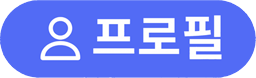
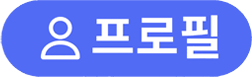
feat(talk): 그래픽 소스 11-15 받은 신청 버튼 둘 반영 · 기획서 261111 6장 대조(변경 없음)
- button_profile 256x78 -> 252x77, 자리 770 -> 756
- button_view_trans 209x73 -> 248x72 (자리 211 그대로)
- 공용: 친구 요청 상세 · 프로필 미리보기 [원문보기]도 함께 바뀜 (09 두 줄에 기록)
- 261011 -> 261111 6장 본문 동일

diff --git a/lib/features/chat/presentation/widgets/talk_art.dart b/lib/features/chat/presentation/widgets/talk_art.dart
@@ -116,7 +116,9 @@ class TalkArt {
   static const double messageLeft = 72 - 24;
 
   static const String viewOriginal = '$_recv/button_view_trans.png';
-  static const Size viewOriginalSize = Size(209, 73);
+  /// 2026-11-15 `그래픽 소스`에서 209×73 → **248×72**(글자가 커졌다). 자리 `211`은 그대로.
+  /// 📌 프로필 미리보기 `_ViewOriginalButton`도 이 그림·크기를 같이 쓴다.
+  static const Size viewOriginalSize = Size(248, 72);
   static const double viewOriginalLeft = 211 - 24;
 
   /// 같은 나라 사람이라 `[원문보기]`를 못 누를 때의 알파(2026-10-04 사용자 결정).
@@ -124,8 +126,10 @@ class TalkArt {
   static const double viewOriginalDisabledOpacity = 0.35;
 
   static const String profile = '$_recv/button_profile.png';
-  static const Size profileSize = Size(256, 78);
-  static const double profileLeft = 770 - 24;
+  /// 2026-11-15 `그래픽 소스`에서 256×78 → **252×77**, 자리 `770` → **`756`**(대화방 좌표 시안).
+  /// 친구 요청 상세도 이 값을 같이 쓴다(친구 좌표 시안은 아직 옛 `770`이지만 그림이 대화방 것이다).
+  static const Size profileSize = Size(252, 77);
+  static const double profileLeft = 756 - 24;
 
   static const double panelRowTop = 1526 - 1487;
 

diff --git a/docs/09-next-task-handoff.md b/docs/09-next-task-handoff.md
@@ -37,9 +37,9 @@
 |---|---|---|
 | 📸 포스트 `/post` | ✅ **11-15 `그래픽 소스` 반영**(2026-11-15) — 앨범 571·부스트 430 · Prime은 **공용 그림 그대로**(교체는 가든 몫 — 포스트는 `GardenArt`를 따라 자동으로 시안 자리로 감) · 제목 아래 안내 문구 · `1/9` 휴지통 위 · 자물쇠 330. 261111 3장은 문구·화면 이름만 바뀜(루나 버튼 삭제는 /shop이 먼저 함). ✅ `verify_post_lock.py` 복구(2026-11-15 — 권리 출처 `LUNA_PURCHASE` → `STORE`, 17/17). 다음은 새 전달본 | 일본어판 그림 4장(08 §0-1 #1·#7~9) |
 | 🌙 달빛가든 `/garden` | ✅ **11-15 `그래픽 소스` 반영**(2026-11-15) — Prime 277×92 혼자 오른쪽(**공용** — 포스트·대화방·친구 머리글도 함께) · `button_Moonlight` 351×121 + **일본어판** · 필터 자리 251/488/705 · 제목 아래 안내 문구(`gardenSubtitle`) · 🗑 안 쓰는 `button_luna.png` 지움(대조 도구 `SKIP_FILES`) · ✅ **기획서 261111 반영** — 4-3 대화 신청 하루 **2회** 무료 · 18시 초기화 · 프라임 무제한 · 루나 없음 · 다 쓰면 `CHAT_REQUEST_FREE_EXHAUSTED`·[MSG NUM2](이 PC 8080에 들어감, 11-15 13:16) · 4-1 노출 믹싱 **5:5**(상점 세션이 대신 반영). ✅ 4-2 댓글 시트 · 카드에서 바로 사진 넘기기(10-04). **다음**: 🤖 봇 데이터 설계 전에 정할 것 정리(§4-1) · 새 전달본 | 관심사 칩 그림(37×2) · 일본어판 남은 것(08 §0-1) · 잠긴 장을 **그 장의 흐린 축소본**으로 보일지(지금은 메인 사진을 뭉갬) |
-| 💬 대화방 `/talk` | 🆕 **11-15 `그래픽 소스` 대조 — 미반영**: 받은 신청 `button_profile` 256×78→252×77 · `button_view trans` 209×73→248×72(`icon_next`는 원래 안 씀) · ✅ 기획서 261111 4-3 대화 신청 규칙(하루 2회 무료·18시 초기화·루나 없음)은 **가든이 반영**(11-15) — 보내는 쪽 규칙이라 **받은 신청은 바뀌는 것 없음**(가든 세션 기록). 채팅창은 `/chat`으로 넘어갔다(10-25). 새 전달본이 오면 그것부터 | 받은 신청 신고·차단 경로 부재 — 폐지인지 확인(10 §0-2) · 일본어판 7장 |
-| 🤝 친구 `/friend` | ✅ **11-15 `그래픽 소스` 대조 — 바뀐 그림 없음**(`button_receive_*`·`icon_next`는 원래 안 들임) · ✅ 받은 신청 손질(261002 7-2, 07 §4 10-04 [친구]). 다음: 261002 **7-1** 문장 대조(친구 100명 상한 문구 등) | [친구 관리] 아이콘 5 그림 · `[원문보기]` 회색 그림 · 핀/`N` 같은 자리 · 친구 신청 만료 기간 · 도시 표기 · 일본어판 4장 |
-| 🙂 프로필 `/profile` | 🆕 **11-15 `그래픽 소스` 대조 — 미반영**: 미리보기 `button_friend` · `button_talk` 🆕 · ✅ **[작성하기]·[미리 보기] 개편 끝**(261002 8-1, **V28**) — 실기기에서 **자유 사진 업로드** 한 번 눌러 볼 것 | 기획 확인 5건(10 §0-3) · 관심사 칩 36종·지역 칩 19곳 그림 · 일본어판 `mark_*` 4 · `title_profile` · 버튼 4(08 §0-3) |
+| 💬 대화방 `/talk` | ✅ **11-15 `그래픽 소스` 반영**(2026-11-15) — 받은 신청 `button_profile` 256×78→**252×77**, 자리 770→**756** · `button_view trans` 209×73→**248×72**(자리 211 그대로). 🔗 공용 — 친구 요청 상세 · 프로필 미리보기 `[원문보기]`도 함께 바뀜 · `icon_next`는 원래 안 씀 · ✅ **기획서 261011 → 261111 6장 diff: 본문 한 글자도 안 바뀜**(10-2 프라임 신청 1일 최상단도 그대로 — 이미 `priorityUntil`로 구현). 4-3 하루 2회 무료는 보내는 쪽 규칙이라 받은 신청 영향 없음(가든 반영). 채팅창은 `/chat`(10-25). ⚠ 실기기 눈 확인 아직(같은 때 `/chat`이 ARB를 고치는 중이라 빌드 보류). **다음**: 눈 확인 · 새 전달본이 오면 그것부터 | 받은 신청 신고·차단 경로 부재 — 폐지인지 확인(10 §0-2) · 일본어판 7장 |
+| 🤝 친구 `/friend` | 🆕 **공용 팝업 변경 — 대화방 세션이 기록(2026-11-15)**: 친구 요청 상세의 `[프로필]` 버튼이 252×77 · 자리 756으로, `[원문보기]`가 248×72로 바뀌었다(그림이 대화방 것 · `TalkArt`). 친구 좌표 시안(`친구방_받은신청_팝업창 좌표.png`)은 아직 옛 770·옛 그림이라 다르게 보이면 대화방 쪽이 맞다 · ✅ **11-15 `그래픽 소스` 대조 — 바뀐 그림 없음**(`button_receive_*`·`icon_next`는 원래 안 들임) · ✅ 받은 신청 손질(261002 7-2, 07 §4 10-04 [친구]). 다음: 261002 **7-1** 문장 대조(친구 100명 상한 문구 등) | [친구 관리] 아이콘 5 그림 · `[원문보기]` 회색 그림 · 핀/`N` 같은 자리 · 친구 신청 만료 기간 · 도시 표기 · 일본어판 4장 |
+| 🙂 프로필 `/profile` | 🆕 **11-15 `그래픽 소스` 대조 — 미반영**: 미리보기 `button_friend` · `button_talk` 🆕 · ✅ **[작성하기]·[미리 보기] 개편 끝**(261002 8-1, **V28**) — 실기기에서 **자유 사진 업로드** 한 번 눌러 볼 것 · 🆕 **미리보기 `[원문보기]`가 209×73 → 248×72로 커졌다 — 미반영(대화방 세션이 기록, 2026-11-15)**: 그림·크기를 `TalkArt`에서 빌려 써서 저절로 바뀜. `profile_preview_view.dart` `_ViewOriginalButton` 위 주석의 "209×73"만 낡았다 | 기획 확인 5건(10 §0-3) · 관심사 칩 36종·지역 칩 19곳 그림 · 일본어판 `mark_*` 4 · `title_profile` · 버튼 4(08 §0-3) |
 | 💌 채팅창 `/chat` | ✅ **10-25 `Scene_Chat` 시안대로 다시 그림**(19장, 07 §4). ✅ 에뮬 확인(10-25). ✅ **11-15 `그래픽 소스/채팅창` 변화 없음 · 기획서 261111 5장 대조 끝**(문구 "프라임 멤버십 구독" 두 줄만 반영). 다음: 실기기(폰) 확인 → 5-1 같은 방 친구 신청 팝업 · [친구 신청] 안내 팝업. GIF는 버튼만(누르면 "준비 중") — 키가 오면 검색 시트 + 메시지 종류 `GIF` | GIF 검색 API 키(KLIPY·Tenor) · 번역 공급자(막힌 것 D) · 그림 셋(안내 문구 · 노란 [정지] · [⋯] 패널, 08 §0-5) · `button_infotrans` 일본어판 |
 | 👑 상점 `/shop` | 🆕 **11-15 `그래픽 소스` 대조 — 미반영**: `frame_primealbum_kr copy.png`(자동 번역·앨범 관리 화면) 🆕 — 이름에 ` copy`가 붙어 왔다 · ✅ **11-14 기획서 261111 + `Scene_Shop(New)` 반영** — 루나 상점 폐지 · 상품별 구매·관리·구매 완료 · 프라임 구매 완료 · **V31**(프라임 구독분/상점 구매분). 다음: 기획 답이 오면 맞추기 · 결제창(막힌 것 E) | 기획 확인(10 §0-5 다섯 · **§0-7 일곱**: 가격 · 부스트 사용 확인 그림 · 다시 사기 조건 등) · 🧭 대화 신청 2회 무료·루나 차감 제거는 대화방·가든 몫(07 §4 11-14) |
 | 🏮 달빛 한마디 `/word` | 🆕 **11-15 `그래픽 소스` 대조 — 미반영**: 답글 상세 `button_addphoto_m` 🆕 · 타이틀 `back_friends_kr/jp` 그림 바뀜(714,210~873,357) · ✅ **10-11 기획서 261011 9장 + `Scene_Word` 전부 반영** — 타이틀·[내 한마디 등록]·[답글 목록]·**[답글 상세](`Reply Detail`, 전체 화면·댓글 본문 아래·ㄴ·보내기 회색↔노랑)** · 200자(V29) · 등록해야 목록 · 참여 뒤 타이틀 건너뜀 · 내 글 좋아요·먼저 댓글 금지 · 더미 `tools/demo/seed_word.py`(07 §4 10-11 [달빛 한마디] 셋). ✅ 갱신판(15:37) 대조 끝 — 첨부 썸네일 줄(image26) · 18시에 쓰던 등록 시트 닫기. 다음: 새 전달본이 오면 | [사진] 버튼·`•••`·♥ 눌린 상태 그림 · 상세 ♥·💬 옆 숫자를 둘지(시안 둘이 다름) · 일본어판 5장(08 §0-4) · 자동 번역 기능 · 무료 번역 5회 초기화 주기(§2-1) |

diff --git a/docs/07-work-log.md b/docs/07-work-log.md
@@ -446,6 +446,13 @@ adb shell cmd locale set-app-locales com.example.project_chat --locales ko-KR
 > 다음에 할 일은 [09 인수인계](09-next-task-handoff.md) §2의 **막힌 것 3건**에서 고른다(A·B가 해소됐다).
 > 다음 "싱크용 문서" 요청은 **그 이후 작업부터** 정리하면 된다.
 
+### 2026-11-15 [대화방] — `그래픽 소스/대화방 화면` 반영(받은 신청 버튼 둘) · 기획서 261111 6장 대조 → 바뀐 것 없음
+- **그래픽**: 대조 도구에서 대화방은 🔴 둘만 — 받은 신청 `button_profile` 256×78 → **252×77**, `button_view trans` 209×73 → **248×72**(글자가 커졌다). `icon_next`는 원래 안 들인다.
+  좌표 시안(`대화방_받은신청_팝업창 좌표.png`)대로 `TalkArt.profileLeft` 770 → **756**, `viewOriginalLeft` 211 그대로.
+  🔗 **공용**: 친구 요청 상세(`friend_request_screen.dart`)와 프로필 미리보기 `[원문보기]`도 `TalkArt` 값을 써서 함께 바뀐다 — 친구 좌표 시안은 아직 옛 770이다. 두 세션 09 §0 줄에 기록.
+- **기획서 261011 → 261111 6장 diff**: 6-1·6-2 본문 **한 글자도 같다**. 10-1의 "프라임 대화 신청은 받은 신청 1일 최상단"도 그대로(`ChatRequestEntity.priorityUntil`, 24시간 — 이미 구현).
+- ⚠ `flutter analyze`: 내 파일은 깨끗. `chat_screen.dart`의 `chatFriendAccepted` 오류 하나는 `/chat` 세션이 ARB를 고치는 중이라 생긴 것(손대지 않음). 그래서 실기기 눈 확인은 미룸.
+
 ### 2026-11-15 [채팅창] — `그래픽 소스/채팅창` · 기획서 261111 5장 대조 → 문구 두 줄만
 - **그래픽**: `compare_ui_delivery.py "D:/Plan_Chat/그래픽 소스"` — 채팅창 19장 **전부 같음**(시안 3장 건너뜀). 할 것 없음.
   (이 PC 콘솔이 cp949라 도구가 이모지 출력에서 죽는다 → `PYTHONIOENCODING=utf-8`로 돌릴 것)

diff --git a/docs/08-assets-checklist.md b/docs/08-assets-checklist.md
@@ -45,8 +45,8 @@
 | 13 | `scene_talk/talk_list/button_list_normal.png` | 대화 목록 | 484×98 |
 | 14 | `scene_talk/talk_list/button_receive_color.png` | 받은 신청 | 484×98 |
 | 15 | `scene_talk/talk_list/button_receive_normal.png` | 받은 신청 | 484×98 |
-| 16 | `scene_talk/application_received/button_view_trans.png` | 원문보기 | 209×73 |
-| 17 | `scene_talk/application_received/button_profile.png` | 프로필 | 256×78 |
+| 16 | `scene_talk/application_received/button_view_trans.png` | 원문보기 | 248×72 (11-15 교체, 옛 209×73) |
+| 17 | `scene_talk/application_received/button_profile.png` | 프로필 | 252×77 (11-15 교체, 옛 256×78) |
 | 18 | `scene_friend/friend_list/title_friends.png` | 친구 | 147×71 |
 | 19 | `scene_friend/friend_list/button_friends_color.png` | 친구 목록 | 484×98 |
 | 20 | `scene_friend/friend_list/button_friends_normal.png` | 친구 목록 | 484×98 |
